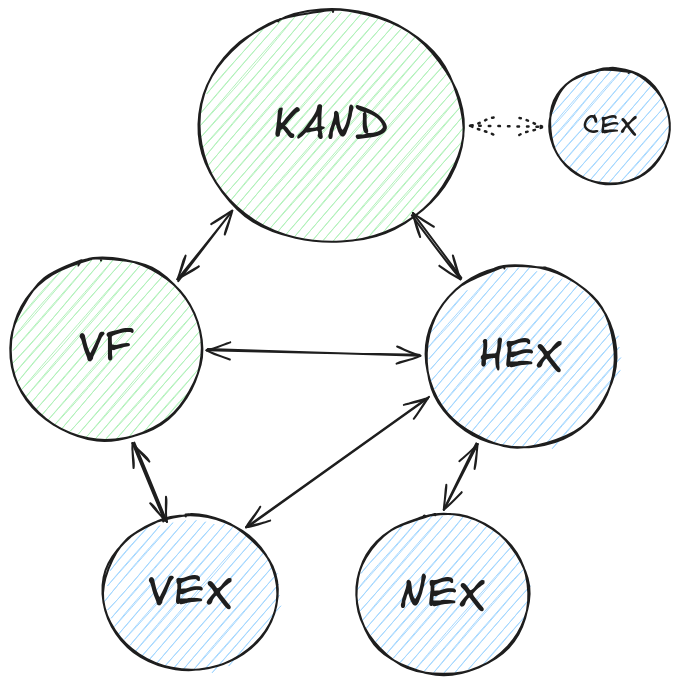
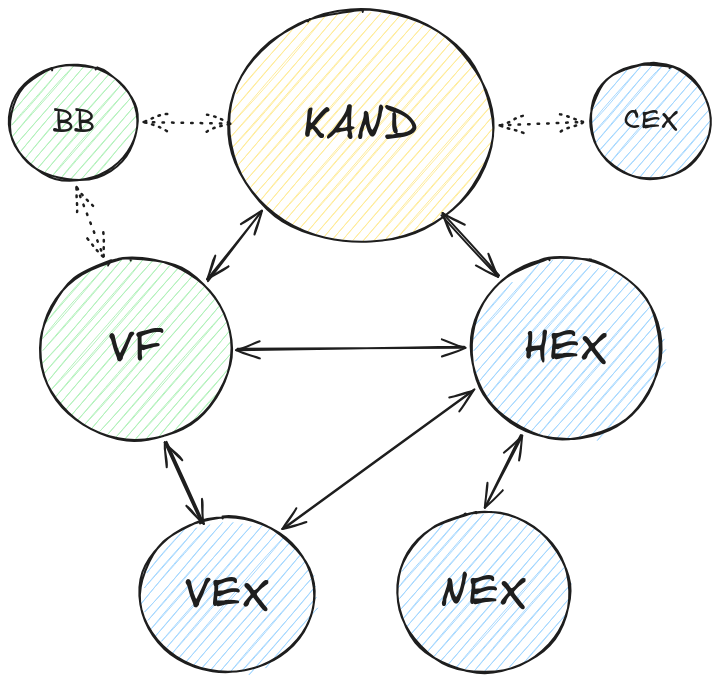
docs: tune

Changed region(s): [[0.0, 0.0, 0.9882, 1.0], [0.0, 0.0924, 0.2471, 0.3079]]

diff --git a/edb/infoveranstaltung-vf.html b/edb/infoveranstaltung-vf.html
@@ -84,14 +84,16 @@
               <div class="image-text">
                 <div>
                   <dl>
+                    <dt><strong>BB</strong> Berufsbildner/in</dt>
                     <dt><strong>KAND</strong> Kandidierende Person</dt>
+                    <dt><strong>CEX</strong> Chefexperte</dt>
                     <dd></dd>
                     <dt><strong>VF</strong> Verantwortliche Fachkraft</dt>
-                    <dd>Formuliert den Auftrag, begleitet die Arbeit und hält Beobachtungen fest.</dd>
+                    <dd>Formuliert den Auftrag, begleitet die Arbeit im Betrieb und hält Beobachtungen fest.</dd>
                     <dt><strong>HEX / NEX</strong> Haupt- und Nebenexperte</dt>
                     <dd>Begleiten die IPA aus Sicht des Expertenteams und wirken an der Bewertung mit.</dd>
-                    <dt><strong>VEX / CEX</strong> Validierungs- und Chefexperte</dt>
-                    <dd>Unterstützen die Validierung und klären übergeordnete Fragen oder Konflikte.</dd>
+                    <dt><strong>VEX</strong> Validierungsexperte</dt>
+                    <dd>Prüfung der Aufgabenstellung</dd>
                   </dl>
                 </div>
                 <figure style="width: 500px; max-width: 100%;">
@@ -147,10 +149,10 @@
 
             <div class="slide-content">
               <ol class="timeline">
-                <li><h3>Registrierung (ab 25.11.)</h3><p>Registriere Dich auf der Prüfungsplattform.</p></li>
-                <li class="fragment"><h3>Eingabe (bis 31.12.)</h3><p>Grobbeschreibung und Startblock eingeben.</p></li>
-                <li class="fragment"><h3>Validierung (ab 1 Monat vor dem Start)</h3><p>Detaillierte Aufgabenstellung ausarbeiten und validieren.</p></li>
-                <li class="fragment"><h3>Freigabe (bis wenige Tage vor dem Start)</h3><p>Der/die VEX gibt Deine IPA zur Umsetzung frei.</p></li>
+                <li><h3>Registrierung (ab 25.11.)</h3><p>Einladung durch den/die BB, um Dich auf der Prüfungsplattform zu registrieren.</p></li>
+                <li class="fragment"><h3>Grobplanung (bis 31.12.)</h3><p>Du gibst zusammen mit der KAND die Grobbeschreibung und den Startblock ein.</p></li>
+                <li class="fragment"><h3>Aufgabenstellung (bis 1 Monat vor dem Start)</h3><p>Detaillierte Aufgabenstellung ausarbeiten und auf der Prüfungsplattform eingeben.</p></li>
+                <li class="fragment"><h3>Validierung und Freigabe (bis wenige Tage vor dem Start)</h3><p>Der/die VEX gibt die IPA zur Umsetzung frei.</p></li>
               </ol>
               <aside class="callout">Plane rückwärts vom IPA-Start und bearbeite Rückmeldungen zeitnah.</aside>
             </div>
@@ -160,14 +162,14 @@
             <!-- .slide: class="content-layout" -->
             <p class="eyebrow">Aufgaben</p>
 
-            ## Was Du vor der IPA erledigst.
+            ## Was vor dem Start ansteht.
 
             <div class="slide-content icon-list">
               <div class="icon-list-item fragment">
                 <img src="../lib/assets/icons/business/fingerprint.svg" alt="Registrierung">
                 <div>
-                  <h3>Registrierung koordinieren</h3>
-                  <p>Ab dem <strong>25. November</strong> registriert sich die KAND auf <a href="https://pkorg.ch">PkOrg</a>, lädt den/die BB ein, der/die wiederum Dich als VF einlädt. Kläre frühzeitig, wer den Auftrag im Betrieb verantwortet.</p>
+                  <h3>Registrieren</h3>
+                  <p>Ab dem <strong>25. November</strong> registriert sich die KAND auf <a href="https://pkorg.ch">PkOrg</a>, lädt den/die BB ein, der/die wiederum Dich als VF einlädt.</p>
                 </div>
               </div>
               <div class="icon-list-item fragment">
@@ -192,10 +194,10 @@
                 </div>
               </div>
               <div class="icon-list-item fragment">
-                <img src="../lib/assets/icons/education/jigsaw.svg" alt="Vorbereitung">
+                <img src="../lib/assets/icons/building/engineer.svg" alt="Vorbereitung">
                 <div>
-                  <h3>Detaillierte Aufgabenstellung ausarbeiten</h3>
-                  <p>Arbeite die detaillierte Aufgabenstellung aus und gibt sie bis <strong>spätestens 1 Monat vor dem Start</strong> zur Validierung frei.</p>
+                  <h3>Aufgabenstellung ausarbeiten</h3>
+                  <p>Arbeite die detaillierte Aufgabenstellung aus, nehme am Workshop teil und gib sie bis <strong>spätestens 1 Monat vor dem Start</strong> zur Validierung frei.</p>
                 </div>
               </div>
               <div class="icon-list-item fragment">
@@ -217,22 +219,22 @@
             <div class="slide-content">
               <div class="two-cols">
                 <div>
-                    <h3>aus dem Berufsalltag</h3>
+                  <h3>aus dem Berufsalltag</h3>
                   <ul>
-                    <li>Daten analysieren</li>
-                    <li>Evaluation von Schnittstellen und deren Beteiligten</li>
+                    <li>Daten verarbeiten und analysieren</li>
+                    <li>Evaluation von Schnittstellen</li>
                     <li>Prozesse entwickeln, optimieren, vereinfachen und digitalisieren</li>
                     <li>Schulungen entwickeln und durchführen</li>
                     <li>...</li>
                   </ul>
                 </div>
                 <div class="fragment">
-                    <h3>zur kandidierenden Person passend</h3>
+                  <h3>zur KAND passend</h3>
                   <ul>
                     <li>Stärken und Bekanntes berücksichtigen</li>
                     <li>Aufbauend auf bisherigen oder aktuell laufenden Projekten</li>
                     <li>Etwas, was für die KAND nicht komplett neu ist</li>
-                    <li>Etwas, was den Berufsalltag der KAND widerspiegelt</li>
+                    <li>Etwas, was den Berufsalltag der KAND betrifft</li>
                     <li>...</li>
                   </ul>
                 </div>
@@ -242,7 +244,7 @@
                 <div class="two-cols">
                   <div>
                     <ul>
-                      <li>Durch dich formulierte Aufgabenstellungen</li>
+                      <li>Durch den KAND formulierte Aufgabenstellungen</li>
                       <li>Fiktive Themen</li>
                       <li>Unbekannte Produkte und Methoden</li>
                     </ul>
@@ -260,14 +262,209 @@
 
             ---
 
+            <!-- .slide: class="content-layout" -->
+            <p class="eyebrow">Aufgaben</p>
+
+            ## Wie die Grobplanung erfasst werden kann. (1/2)
+
+            <div class="slide-content">
+              <div class="image-text">
+                <div>
+                  <ol>
+                    <li>Der/die Berufsbildner/in lädt Dich ein.</li>
+                    <li>Klicke auf den Link in der Einladungsemail.</li>
+                    <li>Registriere dich auf der Prüfungsplattform.</li>
+                    <li>Öffne den Prozessschritt «Planung» um die Erfassung zu starten.</li>
+                  </ol>
+                  <aside class="callout" style="margin-block-start: 1em">Berufsbildner/innen können gleichzeitig auch verantwortliche Fachkräfte sein.</aside>
+                </div>
+                <figure style="width: 500px; max-width: 100%;">
+                  <img src="./assets/pkorg_vf_planung.png" width="768" height="432" style="height: 400px;" alt="Symbolbild">
+                  <figcaption>Screenshot von PkOrg</figcaption>
+                </figure>
+              </div>
+            </div>
+
+            ---
+
+            <!-- .slide: class="content-layout" -->
+            <p class="eyebrow">Aufgaben</p>
+
+            ## Wie die Grobplanung erfasst werden kann. (2/2)
+
+            <div class="slide-content">
+              <div class="image-text">
+                <div>
+                  <ol start="5">
+                    <li>Wähle den Startblock aus, in dem der erste Arbeitstag liegen muss.</li>
+                    <li>Wähle die Durchführungsart.</li>
+                    <li>Gib den Thematitel und -beschreibung ein.</li>
+                    <li>Fülle die restlichen erforderlichen Felder aus und signiere die Eingaben.</li>
+                    <li>Die KAND muss die Eingaben prüfen und bestätigen.</li>
+                  </ol>
+                  <aside class="callout" style="margin-block-start: 1em">Für die Startblöcke gibt es Kontingente.</aside>
+                </div>
+                <figure style="width: 500px; max-width: 100%;" class="fragment">
+                  <ul>
+                    <li>An Wochenenden und Feiertagen darf nicht gestartet oder an der IPA gearbeitet werden.</li>
+                    <li>Schule unterbrechen die Arbeit an der IPA ebenfalls.</li>
+                  </ul>
+                  <table style="margin-block-start: 1em; font-size: 1rem;">
+                    <thead>
+                      <tr>
+                        <th>Startblock</th>
+                        <th>Start</th>
+                        <th>Ende</th>
+                        <th>Kontingent</th>
+                        <th>Späteste Abgabe</th>
+                      </tr>
+                    </thead>
+                    <tbody>
+                      <tr>
+                        <td>Block 1</td>
+                        <td>15.02.27</td>
+                        <td>28.02.27</td>
+                        <td>8</td>
+                        <td>29.04.27</td>
+                      </tr>
+                      <tr>
+                        <td>Block 2</td>
+                        <td>01.03.27</td>
+                        <td>14.03.27</td>
+                        <td>10</td>
+                        <td>13.05.27</td>
+                      </tr>
+                      <tr>
+                        <td>Block 3</td>
+                        <td>15.03.27</td>
+                        <td>28.03.27</td>
+                        <td>8</td>
+                        <td>27.05.27</td>
+                      </tr>
+                      <tr>
+                        <td>Block 4</td>
+                        <td>29.03.27</td>
+                        <td>11.04.27</td>
+                        <td>6</td>
+                        <td style="font-weight: bold;">01.06.27</td>
+                      </tr>
+                      <tr>
+                        <td>Block 5</td>
+                        <td>12.04.27</td>
+                        <td>25.04.27</td>
+                        <td>4</td>
+                        <td style="font-weight: bold;">01.06.27</td>
+                      </tr>
+                    </tbody>
+                  </table>
+                  <figcaption>Startblöcke 2027</figcaption>
+                </figure>
+              </div>
+            </div>
+
+            ---
+
+            <!-- .slide: class="content-layout" -->
+            <p class="eyebrow">Aufgaben</p>
+
+            ## Was bei der Aufgabenstellung wichtig ist. (1/3)
+
+            <div class="slide-content">
+              <div class="image-text"><!-- .element style="grid-template-columns: minmax(0, 1fr) minmax(0, 1fr);" -->
+                <div>
+                  <ol class="agenda-list">
+                    <li class="fragment"><h3>Kriterienauswahl</h3><p>Je zwei Wahl- und Individualkriterien erfassen. Auf Messbarkeit achten und doppelte Bewertung vermeiden.</p></li>
+                    <li class="fragment"><h3>Ausgangslage</h3><p>Projektumfeld und Problemstellung beschreiben</p></li>
+                    <li class="fragment"><h3>Detaillierte Aufgabenstellung</h3><p>Ausführliche Beschreibung, ohne die Lösung vorwegzunehmen (wie Kundenauftrag)</p></li>
+                  </ol>
+                </div>
+                <div>
+                  <ol class="agenda-list" start="5">
+                    <li class="fragment"><h3>Mittel und Methoden</h3><p>Benötigter Arbeitsplatz, sowie einzusetzende Hard- und Software</p></li>
+                    <li class="fragment"><h3>Vorkenntnisse</h3><p>ähnliche Projekte in der Vergangenheit</p></li>
+                    <li class="fragment"><h3>Vorarbeiten</h3><p>Abgrenzung zu der IPA</p></li>
+                    <li class="fragment"><h3>Neue Lerninhalte</h3><p>Neue Inhalte (max. 20%)</p></li>
+                  </ol>
+                </div>
+              </div>
+            </div>
+
+            ---
+
+            <!-- .slide: class="content-layout" -->
+            <p class="eyebrow">Aufgaben</p>
+
+            ## Was bei der Aufgabenstellung wichtig ist. (2/3)
+
+            <div class="slide-content">
+              <div class="image-text">
+                <div>
+                  <ol class="agenda-list" start="9">
+                    <li class="fragment"><h3>Zeitrahmen der Aufgabe</h3><p>Definiere den <strong>Startzeitpunkt</strong>, der innerhalb des gewählten Startblocks liegen muss. Der <strong>Endzeitpunkt</strong> darf <strong>maximal zwei Monate</strong> nach dem Startzeitpunkt oder <strong>spätestens am 01.06.2027</strong> liegen.</p></li>
+                    <li class="fragment"><h3>Zeit</h3><p>Für die Projektarbeit sind immer 80 Stunden vorgesehen.</p></li>
+                  </ol>
+                </div>
+                <figure style="width: 600px; max-width: 100%;">
+                  <img src="./assets/pkorg_vf_aufgabenstellung_1.png" width="768" height="432" style="height: 400px;" alt="Symbolbild">
+                  <figcaption>Screenshot von PkOrg</figcaption>
+                </figure>
+              </div>
+            </div>
+
+            ---
+
+            <!-- .slide: class="content-layout" -->
+            <p class="eyebrow">Aufgaben</p>
+
+            ## Was bei der Aufgabenstellung wichtig ist. (3/3)
+
+            <div class="slide-content">
+              <div class="image-text">
+                <div>
+                  <ol class="agenda-list" start="11">
+                    <li class="fragment"><h3>Grober Soll-Zeitplan</h3><p>Schätze die benötigte Zeit für die einzelnen Arbeitsschritte ein. <strong>Die KAND darf diese Planung nicht sehen.</strong></p></li>
+                    <li class="fragment"><h3>Weitere Dokumente</h3><p>Füge alle relevanten Dokumente bei, die für die Validierung oder Bearbeitung der Aufgabe notwendig sind. <strong>Denke darauf die passende Sichtbarkeit einzustellen.</strong></p></li>
+                  </ol>
+                </div>
+                <figure style="width: 600px; max-width: 100%;">
+                  <img src="./assets/pkorg_vf_aufgabenstellung_2.png" width="768" height="432" style="height: 400px;" alt="Symbolbild">
+                  <figcaption>Screenshot von PkOrg</figcaption>
+                </figure>
+              </div>
+            </div>
+
+            ---
+
+            <!-- .slide: class="content-layout" -->
+            <p class="eyebrow">Aufgaben</p>
+
+            ## Abschliessende Schritte bis zur Freigabe.
+
+            <div class="slide-content">
+              <div class="image-text">
+                <div>
+                  <ul class="key-points">
+                    <li><h3>Signieren</h3><p>Zum Abschluss signierst Du und die KAND die Aufgabe. Die KAND bestätigt dadurch, dass Sie die Aufgabe verstanden hat und mit der Umsetzung einverstanden ist.</p></li>
+                    <li><h3>Validieren</h3><p>Der/die VEX überprüft die Arbeit, weisst die Arbeit für Korrekturen an Dich zur Überarbeitung zurück oder gibt diese ein paar Tage vor dem Start frei.</p></li>
+                  </ul>
+                </div>
+                <figure style="width: 300px; max-width: 100%;">
+                  <img src="./assets/start.jpg" width="768" height="432" style="height: 450px;" alt="Symbolbild">
+                  <figcaption>Foto von <a href="https://unsplash.com/@jan_huber?utm_source=unsplash&utm_medium=referral&utm_content=creditCopyText">Jan Huber</a> auf <a href="https://unsplash.com/photos/silhouette-of-trees-during-sunset-4MDXq_aqHY4?utm_source=unsplash&utm_medium=referral&utm_content=creditCopyText">Unsplash</a></figcaption>
+                </figure>
+              </div>
+            </div>
+
+            ---
+
             <!-- .slide: class="title-layout section-layout" -->
             <span class="section-number" aria-hidden="true">02</span>
 
-            # Aufgabe und Validierung
+            # Während der Durchführung
 
             <div class="title-content">
 
-              Detailliertes Briefing, Kriterien und Soll-Zeitplan
+              Tägliche Arbeit, Besuche, Dokumentieren und Protokollieren
 
             </div>
 
@@ -368,11 +565,11 @@
             <!-- .slide: class="title-layout section-layout" -->
             <span class="section-number" aria-hidden="true">03</span>
 
-            # Während der IPA
+            # Nach der Abgabe
 
             <div class="title-content">
 
-              Begleitung, Beobachtung und Protokoll
+              Präsentation und Fachgespräch
 
             </div>
 
@@ -445,7 +642,7 @@
             <!-- .slide: class="title-layout section-layout" -->
             <span class="section-number" aria-hidden="true">04</span>
 
-            # Bewertung und Abschluss
+            # Bewertung und weitere Schritte
 
             <div class="title-content">
               Fragen, Anliegen und Diskussion

diff --git a/lib/theme.css b/lib/theme.css
@@ -246,6 +246,7 @@
   font-size: 1.5em;
   font-family: var(--r-main-font);
   font-weight: var(--font-weight-regular);
+  hyphens: auto;
   font-feature-settings: "ss07", "ss08", "cv03", "cv04", "cv10";
   color: var(--r-main-color);
 
@@ -838,12 +839,10 @@ print {
     display: grid;
     padding: 0;
     list-style: none;
-    counter-reset: item;
 
     >li {
       min-width: 0;
       margin: 0;
-      counter-increment: item;
     }
 
     h3 {
@@ -865,7 +864,7 @@ print {
 
     >li {
       position: relative;
-      padding: 0 0 1rem 6.4rem;
+      padding: 0 0 1rem 5rem;
       border-bottom: 1px solid var(--color-gray-15);
 
       &:last-child {
@@ -873,7 +872,7 @@ print {
       }
 
       &::before {
-        content: counter(item, decimal-leading-zero);
+        content: counter(list-item, decimal-leading-zero);
         position: absolute;
         inset: 0 auto auto 0;
         color: var(--theme-primary);
@@ -980,7 +979,7 @@ print {
       position: relative;
 
       &::before {
-        content: counter(item, decimal-leading-zero);
+        content: counter(list-item, decimal-leading-zero);
         display: block;
         margin-block-end: 3.4rem;
         color: var(--theme-primary);
